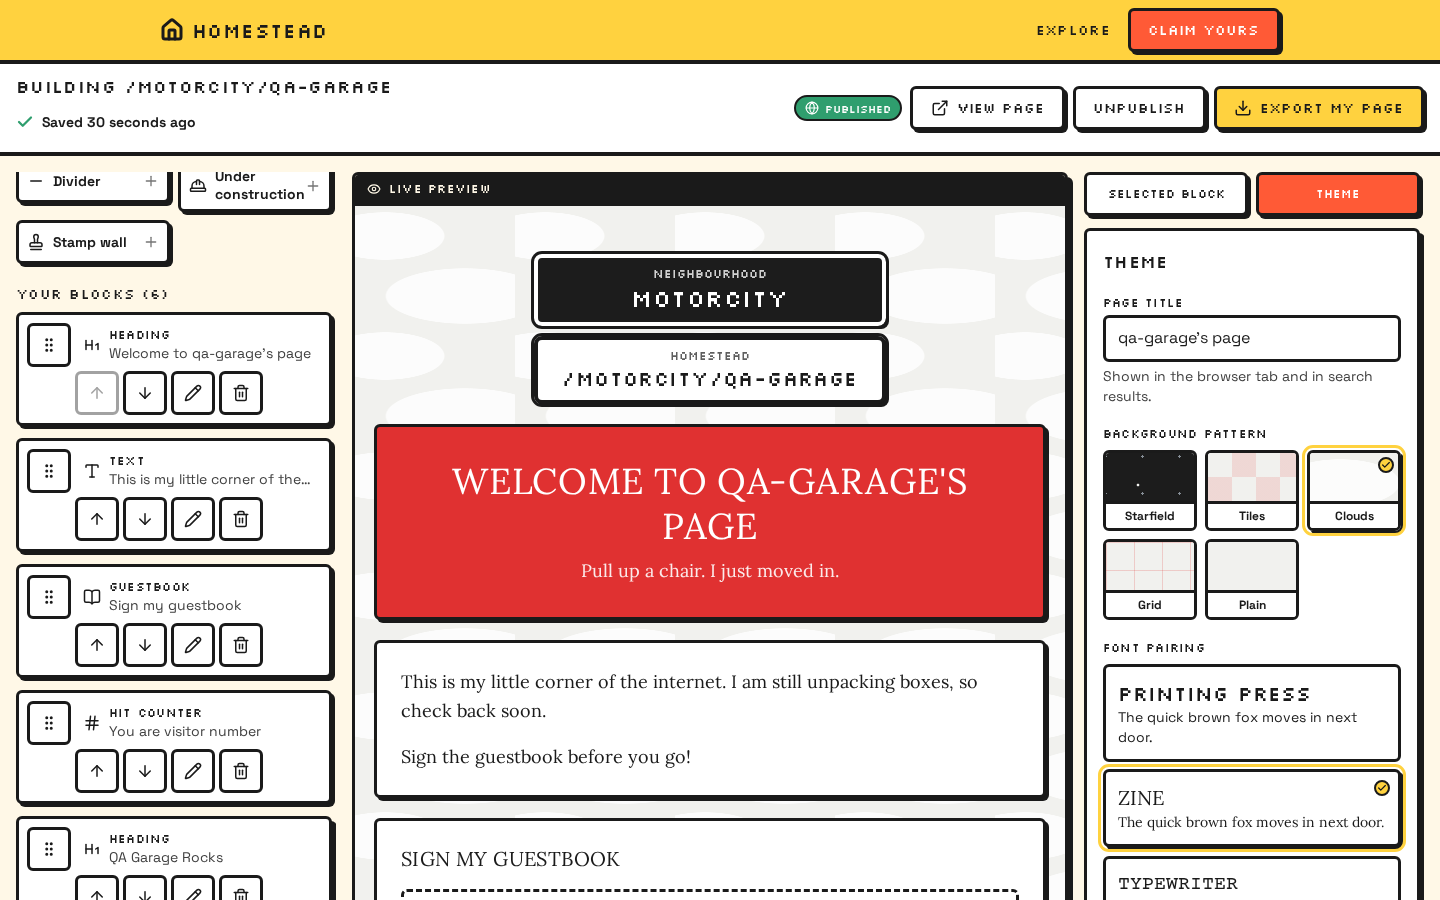
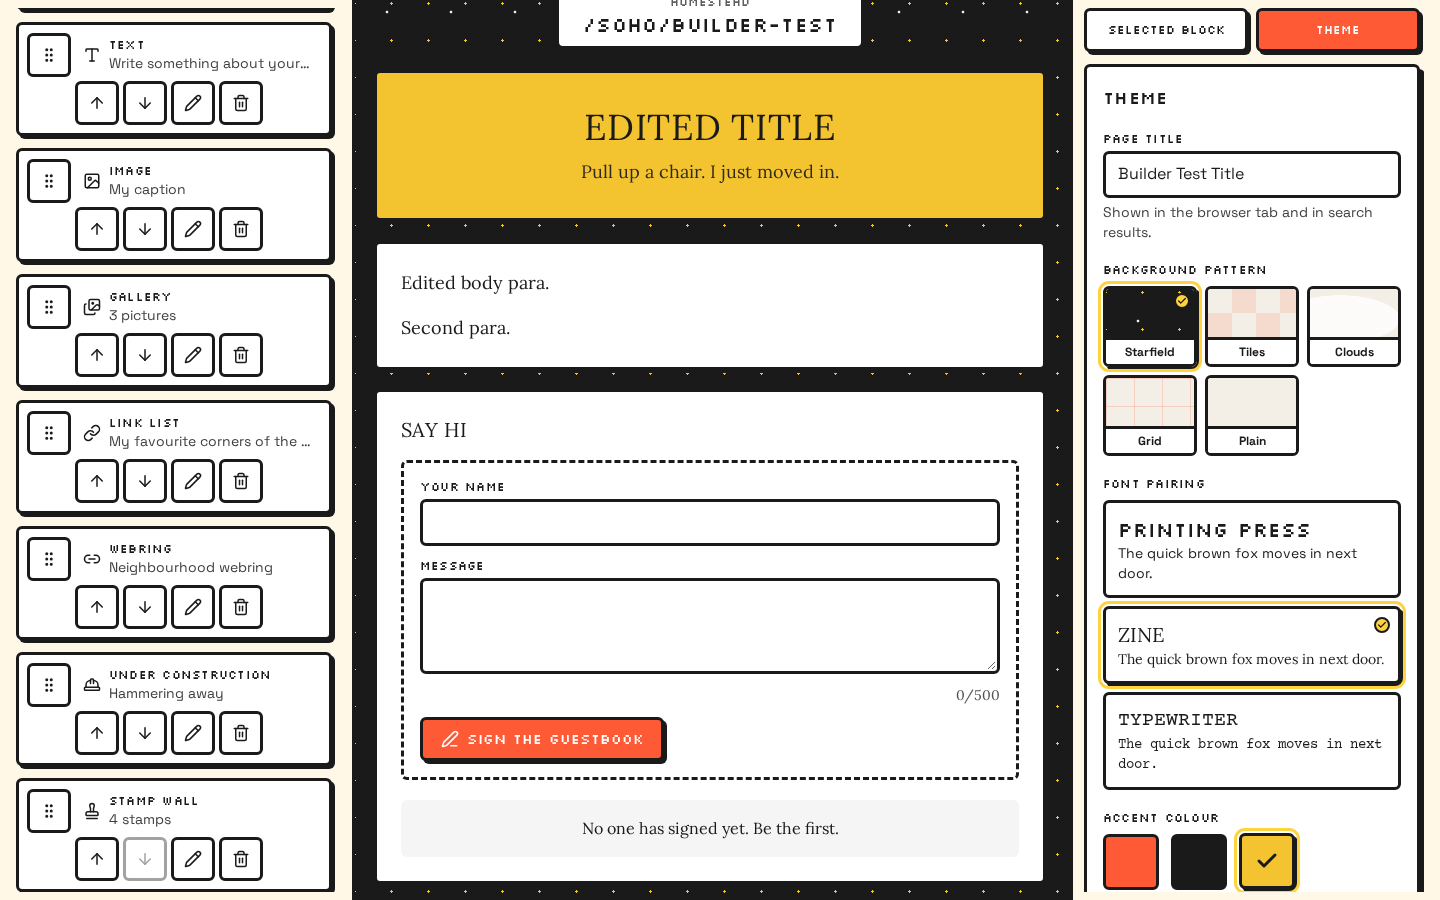
chore: measure webring targets after animations settle, update QA

diff --git a/docs/exported-sample.html b/docs/exported-sample.html
@@ -3,8 +3,8 @@
 <head>
 <meta charset="utf-8">
 <meta name="viewport" content="width=device-width, initial-scale=1">
-<title>qa-garage&#39;s page · MotorCity · Homestead</title>
-<meta name="description" content="qa-garage&#39;s page, a saved copy of a Homestead page from MotorCity.">
+<title>Builder Test Title · SoHo · Homestead</title>
+<meta name="description" content="Builder Test Title, a saved copy of a Homestead page from SoHo.">
 <style>
 /* Fonts: system fallbacks keep the layout intact offline. */
 :root{--font-display:"Silkscreen","Courier New",monospace;--font-body:"Space Grotesk",system-ui,sans-serif}
@@ -14,18 +14,24 @@
 </head>
 <body>
 <main>
-<div class="hs-page px-4 py-8 sm:py-12" style="background-color:#f1f1ee;background-image:radial-gradient(ellipse 60px 24px at 30px 30px, #ffffffcc 98%, transparent), radial-gradient(ellipse 80px 28px at 110px 90px, #ffffffcc 98%, transparent);background-size:160px 120px;--hs-main:#e03131;--hs-second:#f08c00;--hs-third:#868e96;--hs-dark:#1c1c1c;--hs-tint:#f1f1ee;--hs-accent:#e03131;--hs-on-accent:#ffffff;--hs-heading:&quot;Lora&quot;, Georgia, serif;--hs-body:&quot;Lora&quot;, Georgia, serif;color:#1a1a1a;font-family:&quot;Lora&quot;, Georgia, serif">
+<div class="hs-page px-4 py-8 sm:py-12" style="background-color:#1a1a1a;background-image:radial-gradient(#f3efe6 1.5px, transparent 1.6px), radial-gradient(#f4c430 1px, transparent 1.2px);background-size:64px 64px, 37px 37px;background-position:0 0, 18px 22px;--hs-main:#ff5a36;--hs-second:#1a1a1a;--hs-third:#f4c430;--hs-dark:#1a1a1a;--hs-tint:#f3efe6;--hs-accent:#f4c430;--hs-on-accent:#1a1a1a;--hs-heading:&quot;Lora&quot;, Georgia, serif;--hs-body:&quot;Lora&quot;, Georgia, serif;color:#1a1a1a;font-family:&quot;Lora&quot;, Georgia, serif">
 <div class="mx-auto grid max-w-2xl gap-5">
-<div class="mx-auto flex max-w-full flex-col items-stretch" aria-label="Address: MotorCity, qa-garage"><div class="hs-sign" style="background:#1c1c1c;color:#fff"><span class="text-xs uppercase opacity-80">Neighbourhood</span><span class="font-display text-xl uppercase sm:text-2xl">MotorCity</span></div><div class="hs-sign hs-sign-2" style="background:#fff;color:#1a1a1a"><span class="text-xs uppercase opacity-70">Homestead</span><span class="font-display break-all text-lg sm:text-xl">/motorcity/qa-garage</span></div></div>
+<div class="mx-auto flex max-w-full flex-col items-stretch" aria-label="Address: SoHo, builder-test"><div class="hs-sign" style="background:#1a1a1a;color:#fff"><span class="text-xs uppercase opacity-80">Neighbourhood</span><span class="font-display text-xl uppercase sm:text-2xl">SoHo</span></div><div class="hs-sign hs-sign-2" style="background:#fff;color:#1a1a1a"><span class="text-xs uppercase opacity-70">Homestead</span><span class="font-display break-all text-lg sm:text-xl">/soho/builder-test</span></div></div>
 
-<div><div class="hs-card hs-accent p-6 text-center sm:p-8"><h1 class="text-2xl uppercase leading-tight sm:text-4xl" style="font-family:var(--hs-heading)">Welcome to qa-garage&#39;s page</h1><p class="mt-2 text-lg opacity-90">Pull up a chair. I just moved in.</p></div></div>
-<div><div class="hs-card bg-white p-5 sm:p-6"><p class="whitespace-pre-line text-lg leading-relaxed [&:not(:first-child)]:mt-4">This is my little corner of the internet. I am still unpacking boxes, so check back soon.</p><p class="whitespace-pre-line text-lg leading-relaxed [&:not(:first-child)]:mt-4">Sign the guestbook before you go!</p></div></div>
-<div><section aria-labelledby="gb-514c32ca-f5ff-40ac-a352-78ea758f689d" class="hs-card bg-white p-5 sm:p-6"><h2 id="gb-514c32ca-f5ff-40ac-a352-78ea758f689d" class="mb-4 text-xl uppercase" style="font-family:var(--hs-heading)">Sign my guestbook</h2><p class="mb-4 rounded-chunk border-[3px] border-dashed border-ink p-3 text-sm">This is a saved copy of the guestbook. To sign it, visit <a class="underline font-bold" href="http://localhost:4176/motorcity/qa-garage">the live page</a>.</p><ul class="grid gap-3"><li class="rounded-chunk border-[3px] border-ink bg-[var(--hs-tint)] p-3"><div class="flex flex-wrap items-baseline justify-between gap-x-3"><p class="font-display text-sm uppercase break-all">Visitor</p><time datetime="2026-11-20T02:13:06.114Z" class="text-sm text-neutral-700">2026-11-20</time></div><p class="mt-1 whitespace-pre-line break-words">Great garage!</p></li></ul></section></div>
-<div><div class="hs-card flex flex-col items-center gap-3 p-5 text-center" style="background:var(--hs-dark);color:#fff"><p class="font-display text-sm uppercase">You are visitor number</p><p aria-label="2" class="flex gap-1"><span class="hs-digit" aria-hidden="true"><span class="hs-digit-strip" style="transform:translateY(-0%)"><span>0</span><span>1</span><span>2</span><span>3</span><span>4</span><span>5</span><span>6</span><span>7</span><span>8</span><span>9</span></span></span><span class="hs-digit" aria-hidden="true"><span class="hs-digit-strip" style="transform:translateY(-0%)"><span>0</span><span>1</span><span>2</span><span>3</span><span>4</span><span>5</span><span>6</span><span>7</span><span>8</span><span>9</span></span></span><span class="hs-digit" aria-hidden="true"><span class="hs-digit-strip" style="transform:translateY(-0%)"><span>0</span><span>1</span><span>2</span><span>3</span><span>4</span><span>5</span><span>6</span><span>7</span><span>8</span><span>9</span></span></span><span class="hs-digit" aria-hidden="true"><span class="hs-digit-strip" style="transform:translateY(-0%)"><span>0</span><span>1</span><span>2</span><span>3</span><span>4</span><span>5</span><span>6</span><span>7</span><span>8</span><span>9</span></span></span><span class="hs-digit" aria-hidden="true"><span class="hs-digit-strip" style="transform:translateY(-0%)"><span>0</span><span>1</span><span>2</span><span>3</span><span>4</span><span>5</span><span>6</span><span>7</span><span>8</span><span>9</span></span></span><span class="hs-digit" aria-hidden="true"><span class="hs-digit-strip" style="transform:translateY(-20%)"><span>0</span><span>1</span><span>2</span><span>3</span><span>4</span><span>5</span><span>6</span><span>7</span><span>8</span><span>9</span></span></span></p></div></div>
-<div><div class="hs-card hs-accent p-6 text-center sm:p-8"><h2 class="text-2xl uppercase leading-tight sm:text-4xl" style="font-family:var(--hs-heading)">QA Garage Rocks</h2><p class="mt-2 text-lg opacity-90">A short line underneath</p></div></div>
-<div><nav aria-label="MotorCity webring" class="hs-card bg-white p-5 text-center"><p class="mb-1 inline-flex items-center gap-2 font-display text-sm uppercase"><svg xmlns="http://www.w3.org/2000/svg" width="18" height="18" viewBox="0 0 24 24" fill="none" stroke="currentColor" stroke-width="2" stroke-linecap="round" stroke-linejoin="round" class="lucide lucide-link-2" aria-hidden="true"><path d="M9 17H7A5 5 0 0 1 7 7h2"></path><path d="M15 7h2a5 5 0 1 1 0 10h-2"></path><line x1="8" x2="16" y1="12" y2="12"></line></svg> MotorCity webring</p><div class="mt-3 flex flex-wrap justify-center gap-2"><a href="http://localhost:4176/motorcity/qa-garage" class="btn btn-paper"><svg xmlns="http://www.w3.org/2000/svg" width="18" height="18" viewBox="0 0 24 24" fill="none" stroke="currentColor" stroke-width="2" stroke-linecap="round" stroke-linejoin="round" class="lucide lucide-chevron-left" aria-hidden="true"><path d="m15 18-6-6 6-6"></path></svg> Previous</a><a href="http://localhost:4176/explore?hood=motorcity" class="btn btn-paper"><svg xmlns="http://www.w3.org/2000/svg" width="18" height="18" viewBox="0 0 24 24" fill="none" stroke="currentColor" stroke-width="2" stroke-linecap="round" stroke-linejoin="round" class="lucide lucide-dices" aria-hidden="true"><rect width="12" height="12" x="2" y="10" rx="2" ry="2"></rect><path d="m17.92 14 3.5-3.5a2.24 2.24 0 0 0 0-3l-5-4.92a2.24 2.24 0 0 0-3 0L10 6"></path><path d="M6 18h.01"></path><path d="M10 14h.01"></path><path d="M15 6h.01"></path><path d="M18 9h.01"></path></svg> Random</a><a href="http://localhost:4176/motorcity/qa-garage" class="btn btn-paper">Next <svg xmlns="http://www.w3.org/2000/svg" width="18" height="18" viewBox="0 0 24 24" fill="none" stroke="currentColor" stroke-width="2" stroke-linecap="round" stroke-linejoin="round" class="lucide lucide-chevron-right" aria-hidden="true"><path d="m9 18 6-6-6-6"></path></svg></a></div><p class="mt-3 text-sm text-neutral-700">This is the only homestead in MotorCity so far.</p></nav></div>
+<div><div class="hs-card hs-accent p-6 text-center sm:p-8"><h1 class="text-2xl uppercase leading-tight sm:text-4xl" style="font-family:var(--hs-heading)">Edited Title</h1><p class="mt-2 text-lg opacity-90">Pull up a chair. I just moved in.</p></div></div>
+<div><div class="hs-card bg-white p-5 sm:p-6"><p class="whitespace-pre-line text-lg leading-relaxed [&:not(:first-child)]:mt-4">Edited body para.</p><p class="whitespace-pre-line text-lg leading-relaxed [&:not(:first-child)]:mt-4">Second para.</p></div></div>
+<div><section aria-labelledby="gb-2067b47b-ce21-4ee9-b826-fa920c184f49" class="hs-card bg-white p-5 sm:p-6"><h2 id="gb-2067b47b-ce21-4ee9-b826-fa920c184f49" class="mb-4 text-xl uppercase" style="font-family:var(--hs-heading)">Say hi</h2><p class="mb-4 rounded-chunk border-[3px] border-dashed border-ink p-3 text-sm">This is a saved copy of the guestbook. To sign it, visit <a class="underline font-bold" href="http://localhost:4175/soho/builder-test">the live page</a>.</p><ul class="grid gap-3"><li class="rounded-chunk border-[3px] border-ink bg-[var(--hs-tint)] p-3"><div class="flex flex-wrap items-baseline justify-between gap-x-3"><p class="font-display text-sm uppercase break-all">Visitor2</p><time datetime="2026-11-20T02:18:29.651Z" class="text-sm text-neutral-700">2026-11-20</time></div><p class="mt-1 whitespace-pre-line break-words">Keep me</p></li></ul></section></div>
+<div><div class="hs-card flex flex-col items-center gap-3 p-5 text-center" style="background:var(--hs-dark);color:#fff"><p class="font-display text-sm uppercase">Visitors so far</p><p aria-label="2" class="flex gap-1"><span class="hs-digit" aria-hidden="true"><span class="hs-digit-strip" style="transform:translateY(-0%)"><span>0</span><span>1</span><span>2</span><span>3</span><span>4</span><span>5</span><span>6</span><span>7</span><span>8</span><span>9</span></span></span><span class="hs-digit" aria-hidden="true"><span class="hs-digit-strip" style="transform:translateY(-0%)"><span>0</span><span>1</span><span>2</span><span>3</span><span>4</span><span>5</span><span>6</span><span>7</span><span>8</span><span>9</span></span></span><span class="hs-digit" aria-hidden="true"><span class="hs-digit-strip" style="transform:translateY(-0%)"><span>0</span><span>1</span><span>2</span><span>3</span><span>4</span><span>5</span><span>6</span><span>7</span><span>8</span><span>9</span></span></span><span class="hs-digit" aria-hidden="true"><span class="hs-digit-strip" style="transform:translateY(-0%)"><span>0</span><span>1</span><span>2</span><span>3</span><span>4</span><span>5</span><span>6</span><span>7</span><span>8</span><span>9</span></span></span><span class="hs-digit" aria-hidden="true"><span class="hs-digit-strip" style="transform:translateY(-0%)"><span>0</span><span>1</span><span>2</span><span>3</span><span>4</span><span>5</span><span>6</span><span>7</span><span>8</span><span>9</span></span></span><span class="hs-digit" aria-hidden="true"><span class="hs-digit-strip" style="transform:translateY(-20%)"><span>0</span><span>1</span><span>2</span><span>3</span><span>4</span><span>5</span><span>6</span><span>7</span><span>8</span><span>9</span></span></span></p></div></div>
+<div><div class="hs-card hs-accent p-6 text-center sm:p-8"><h2 class="text-2xl uppercase leading-tight sm:text-4xl" style="font-family:var(--hs-heading)">A new heading</h2><p class="mt-2 text-lg opacity-90">A short line underneath</p></div></div>
+<div><div class="hs-card bg-white p-5 sm:p-6"><p class="whitespace-pre-line text-lg leading-relaxed [&:not(:first-child)]:mt-4">Write something about yourself here.</p></div></div>
+<div><figure class="hs-card overflow-hidden bg-white"><div class="aspect-[16/10] bg-neutral-100"><img src="https://picsum.photos/seed/x/600/400" alt="Seeded photo" loading="lazy" class="block h-full w-full object-cover"></div><figcaption class="border-t-[3px] border-ink p-3 text-center">My caption</figcaption></figure></div>
+<div><div class="hs-card grid grid-cols-2 gap-3 bg-white p-3 sm:grid-cols-3"><div class="aspect-square overflow-hidden rounded-chunk border-[3px] border-ink"><div class="flex min-h-32 flex-col items-center justify-center gap-2 bg-neutral-100 p-4 text-center text-sm text-neutral-600" role="img" aria-label="Image unavailable"><svg xmlns="http://www.w3.org/2000/svg" width="28" height="28" viewBox="0 0 24 24" fill="none" stroke="currentColor" stroke-width="2" stroke-linecap="round" stroke-linejoin="round" class="lucide lucide-image-off" aria-hidden="true"><line x1="2" x2="22" y1="2" y2="22"></line><path d="M10.41 10.41a2 2 0 1 1-2.83-2.83"></path><line x1="13.5" x2="6" y1="13.5" y2="21"></line><line x1="18" x2="21" y1="12" y2="15"></line><path d="M3.59 3.59A1.99 1.99 0 0 0 3 5v14a2 2 0 0 0 2 2h14c.55 0 1.052-.22 1.41-.59"></path><path d="M21 15V5a2 2 0 0 0-2-2H9"></path></svg><span>No image yet.</span></div></div><div class="aspect-square overflow-hidden rounded-chunk border-[3px] border-ink"><div class="flex min-h-32 flex-col items-center justify-center gap-2 bg-neutral-100 p-4 text-center text-sm text-neutral-600" role="img" aria-label="Image unavailable"><svg xmlns="http://www.w3.org/2000/svg" width="28" height="28" viewBox="0 0 24 24" fill="none" stroke="currentColor" stroke-width="2" stroke-linecap="round" stroke-linejoin="round" class="lucide lucide-image-off" aria-hidden="true"><line x1="2" x2="22" y1="2" y2="22"></line><path d="M10.41 10.41a2 2 0 1 1-2.83-2.83"></path><line x1="13.5" x2="6" y1="13.5" y2="21"></line><line x1="18" x2="21" y1="12" y2="15"></line><path d="M3.59 3.59A1.99 1.99 0 0 0 3 5v14a2 2 0 0 0 2 2h14c.55 0 1.052-.22 1.41-.59"></path><path d="M21 15V5a2 2 0 0 0-2-2H9"></path></svg><span>No image yet.</span></div></div><div class="aspect-square overflow-hidden rounded-chunk border-[3px] border-ink"><div class="flex min-h-32 flex-col items-center justify-center gap-2 bg-neutral-100 p-4 text-center text-sm text-neutral-600" role="img" aria-label="Image unavailable"><svg xmlns="http://www.w3.org/2000/svg" width="28" height="28" viewBox="0 0 24 24" fill="none" stroke="currentColor" stroke-width="2" stroke-linecap="round" stroke-linejoin="round" class="lucide lucide-image-off" aria-hidden="true"><line x1="2" x2="22" y1="2" y2="22"></line><path d="M10.41 10.41a2 2 0 1 1-2.83-2.83"></path><line x1="13.5" x2="6" y1="13.5" y2="21"></line><line x1="18" x2="21" y1="12" y2="15"></line><path d="M3.59 3.59A1.99 1.99 0 0 0 3 5v14a2 2 0 0 0 2 2h14c.55 0 1.052-.22 1.41-.59"></path><path d="M21 15V5a2 2 0 0 0-2-2H9"></path></svg><span>No image yet.</span></div></div></div></div>
+<div><div class="hs-card bg-white p-5 sm:p-6"><h2 class="mb-3 text-xl uppercase" style="font-family:var(--hs-heading)">My favourite corners of the web</h2><ul class="grid gap-2"><li><a href="https://example.com/" target="_blank" rel="noopener noreferrer" class="hs-link group"><span class="min-w-0 flex-1 break-words">Example</span><svg xmlns="http://www.w3.org/2000/svg" width="18" height="18" viewBox="0 0 24 24" fill="none" stroke="currentColor" stroke-width="2" stroke-linecap="round" stroke-linejoin="round" class="lucide lucide-external-link shrink-0" aria-hidden="true"><path d="M15 3h6v6"></path><path d="M10 14 21 3"></path><path d="M18 13v6a2 2 0 0 1-2 2H5a2 2 0 0 1-2-2V8a2 2 0 0 1 2-2h6"></path></svg><span class="sr-only">(opens in a new tab)</span></a></li><li><span class="hs-link opacity-60"><span class="flex-1">Link needs a web address</span></span></li></ul></div></div>
+<div><nav aria-label="SoHo webring" class="hs-card bg-white p-5 text-center"><p class="mb-1 inline-flex items-center gap-2 font-display text-sm uppercase"><svg xmlns="http://www.w3.org/2000/svg" width="18" height="18" viewBox="0 0 24 24" fill="none" stroke="currentColor" stroke-width="2" stroke-linecap="round" stroke-linejoin="round" class="lucide lucide-link-2" aria-hidden="true"><path d="M9 17H7A5 5 0 0 1 7 7h2"></path><path d="M15 7h2a5 5 0 1 1 0 10h-2"></path><line x1="8" x2="16" y1="12" y2="12"></line></svg> SoHo webring</p><div class="mt-3 flex flex-wrap justify-center gap-2"><a href="http://localhost:4175/soho/lenses-by-mara" class="btn btn-paper"><svg xmlns="http://www.w3.org/2000/svg" width="18" height="18" viewBox="0 0 24 24" fill="none" stroke="currentColor" stroke-width="2" stroke-linecap="round" stroke-linejoin="round" class="lucide lucide-chevron-left" aria-hidden="true"><path d="m15 18-6-6 6-6"></path></svg> Previous</a><a href="http://localhost:4175/explore?hood=soho" class="btn btn-paper"><svg xmlns="http://www.w3.org/2000/svg" width="18" height="18" viewBox="0 0 24 24" fill="none" stroke="currentColor" stroke-width="2" stroke-linecap="round" stroke-linejoin="round" class="lucide lucide-dices" aria-hidden="true"><rect width="12" height="12" x="2" y="10" rx="2" ry="2"></rect><path d="m17.92 14 3.5-3.5a2.24 2.24 0 0 0 0-3l-5-4.92a2.24 2.24 0 0 0-3 0L10 6"></path><path d="M6 18h.01"></path><path d="M10 14h.01"></path><path d="M15 6h.01"></path><path d="M18 9h.01"></path></svg> Random</a><a href="http://localhost:4175/soho/lenses-by-mara" class="btn btn-paper">Next <svg xmlns="http://www.w3.org/2000/svg" width="18" height="18" viewBox="0 0 24 24" fill="none" stroke="currentColor" stroke-width="2" stroke-linecap="round" stroke-linejoin="round" class="lucide lucide-chevron-right" aria-hidden="true"><path d="m9 18 6-6-6-6"></path></svg></a></div><p class="mt-3 text-sm text-neutral-700">2 homesteads in this ring. Next stop: Lenses by Mara.</p></nav></div>
+<div><div class="hs-card hs-hazard flex items-center justify-center gap-3 p-4 text-center"><svg xmlns="http://www.w3.org/2000/svg" width="28" height="28" viewBox="0 0 24 24" fill="none" stroke="currentColor" stroke-width="2" stroke-linecap="round" stroke-linejoin="round" class="lucide lucide-hard-hat shrink-0" aria-hidden="true"><path d="M10 10V5a1 1 0 0 1 1-1h2a1 1 0 0 1 1 1v5"></path><path d="M14 6a6 6 0 0 1 6 6v3"></path><path d="M4 15v-3a6 6 0 0 1 6-6"></path><rect x="2" y="15" width="20" height="4" rx="1"></rect></svg><p class="font-display text-sm uppercase sm:text-base">Hammering away</p></div></div>
+<div><div class="hs-card flex flex-wrap justify-center gap-3 bg-white p-4"><span title="Home sweet home" role="img" aria-label="Home sweet home" class="hs-stamp" style="transform:rotate(-4deg)"><svg xmlns="http://www.w3.org/2000/svg" width="28" height="28" viewBox="0 0 24 24" fill="none" stroke="currentColor" stroke-width="2.5" stroke-linecap="round" stroke-linejoin="round" class="lucide lucide-house lucide-home" aria-hidden="true"><path d="M15 21v-8a1 1 0 0 0-1-1h-4a1 1 0 0 0-1 1v8"></path><path d="M3 10a2 2 0 0 1 .709-1.528l7-6a2 2 0 0 1 2.582 0l7 6A2 2 0 0 1 21 10v9a2 2 0 0 1-2 2H5a2 2 0 0 1-2-2z"></path></svg></span><span title="Star" role="img" aria-label="Star" class="hs-stamp" style="transform:rotate(-3deg)"><svg xmlns="http://www.w3.org/2000/svg" width="28" height="28" viewBox="0 0 24 24" fill="none" stroke="currentColor" stroke-width="2.5" stroke-linecap="round" stroke-linejoin="round" class="lucide lucide-star" aria-hidden="true"><path d="M11.525 2.295a.53.53 0 0 1 .95 0l2.31 4.679a2.123 2.123 0 0 0 1.595 1.16l5.166.756a.53.53 0 0 1 .294.904l-3.736 3.638a2.123 2.123 0 0 0-.611 1.878l.882 5.14a.53.53 0 0 1-.771.56l-4.618-2.428a2.122 2.122 0 0 0-1.973 0L6.396 21.01a.53.53 0 0 1-.77-.56l.881-5.139a2.122 2.122 0 0 0-.611-1.879L2.16 9.795a.53.53 0 0 1 .294-.906l5.165-.755a2.122 2.122 0 0 0 1.597-1.16z"></path></svg></span><span title="Heart" role="img" aria-label="Heart" class="hs-stamp" style="transform:rotate(-2deg)"><svg xmlns="http://www.w3.org/2000/svg" width="28" height="28" viewBox="0 0 24 24" fill="none" stroke="currentColor" stroke-width="2.5" stroke-linecap="round" stroke-linejoin="round" class="lucide lucide-heart" aria-hidden="true"><path d="M2 9.5a5.5 5.5 0 0 1 9.591-3.676.56.56 0 0 0 .818 0A5.49 5.49 0 0 1 22 9.5c0 2.29-1.5 4-3 5.5l-5.492 5.313a2 2 0 0 1-3 .019L5 15c-1.5-1.5-3-3.2-3-5.5"></path></svg></span><span title="Coffee" role="img" aria-label="Coffee" class="hs-stamp" style="transform:rotate(-1deg)"><svg xmlns="http://www.w3.org/2000/svg" width="28" height="28" viewBox="0 0 24 24" fill="none" stroke="currentColor" stroke-width="2.5" stroke-linecap="round" stroke-linejoin="round" class="lucide lucide-coffee" aria-hidden="true"><path d="M10 2v2"></path><path d="M14 2v2"></path><path d="M16 8a1 1 0 0 1 1 1v8a4 4 0 0 1-4 4H7a4 4 0 0 1-4-4V9a1 1 0 0 1 1-1h14a4 4 0 1 1 0 8h-1"></path><path d="M6 2v2"></path></svg></span></div></div>
 
-<p class="pb-2 text-center text-sm">Saved copy of <a class="underline font-bold" href="http://localhost:4176/motorcity/qa-garage">/motorcity/qa-garage</a> on Homestead.</p>
+<p class="pb-2 text-center text-sm">Saved copy of <a class="underline font-bold" href="http://localhost:4175/soho/builder-test">/soho/builder-test</a> on Homestead.</p>
 </div>
 </div>
 </main>

diff --git a/QA.md b/QA.md
@@ -9,7 +9,7 @@ Run against code commit `4bbc293d092295548aac1e1707aa757506081d12` (the review-f
 | `npm test` | PASS, 5 files, 28 tests |
 | `scripts/smoke.mjs` | PASS, `console errors: []` |
 | `scripts/e2e-public.mjs` | PASS, `console errors: []` |
-| `scripts/e2e-builder.mjs` | PASS, `console errors: []` (webring buttons measured mid-animation as under 44px, as before) |
+| `scripts/e2e-builder.mjs` | PASS, `console errors: []` (webring buttons now measured after animations settle and asserted >= 44px; no small targets reported) |
 | `scripts/qa.mjs` | PASS, `console errors: []` |
 
 Nothing failed, so no code changes were needed. The run regenerated `docs/exported-sample.html`. The sections below are the original QA from before the review fixes.
@@ -48,7 +48,7 @@ Commands: `npm run build`, `npm test` (28 tests), `node scripts/qa.mjs` (core fl
 | `vercel.json` SPA fallback | PASS | Rewrite `/(.*)` to `/index.html`; deep links load under `vite preview` |
 | Supabase code path | PASS (static) | Build type-checks `supabaseRepo`; columns, check constraints, RPC `increment_page_views(hid)` and RLS in the migration match its queries. Not run against a live project, see BLOCKERS.md |
 | A11y: labels, alt, keyboard, focus, reduced motion, lang | PASS | Inputs located by label in every script, keyboard reorder works, `lang="en"`, one `h1` per page, reduced-motion rules in `index.css` |
-| Touch targets >= 44px at 390px | PASS | e2e-public reports none except webring buttons measured mid pop-in animation (about 42.7px); they settle at 44px |
+| Touch targets >= 44px at 390px | PASS | e2e-builder measures webring buttons after animations finish at 1440px and 390px: Previous 148.2x44.3, Random 135.2x44.3, Next 109.2x44.3 px. The earlier 42.7px was a mid pop-in reading; no CSS change needed |
 | 390px layout, no horizontal scroll | PASS | `scrollWidth <= innerWidth` asserted for landing, explore, claim, public pages, builder tabs, export |
 | 1440px layout | PASS | Screenshots reviewed |
 
